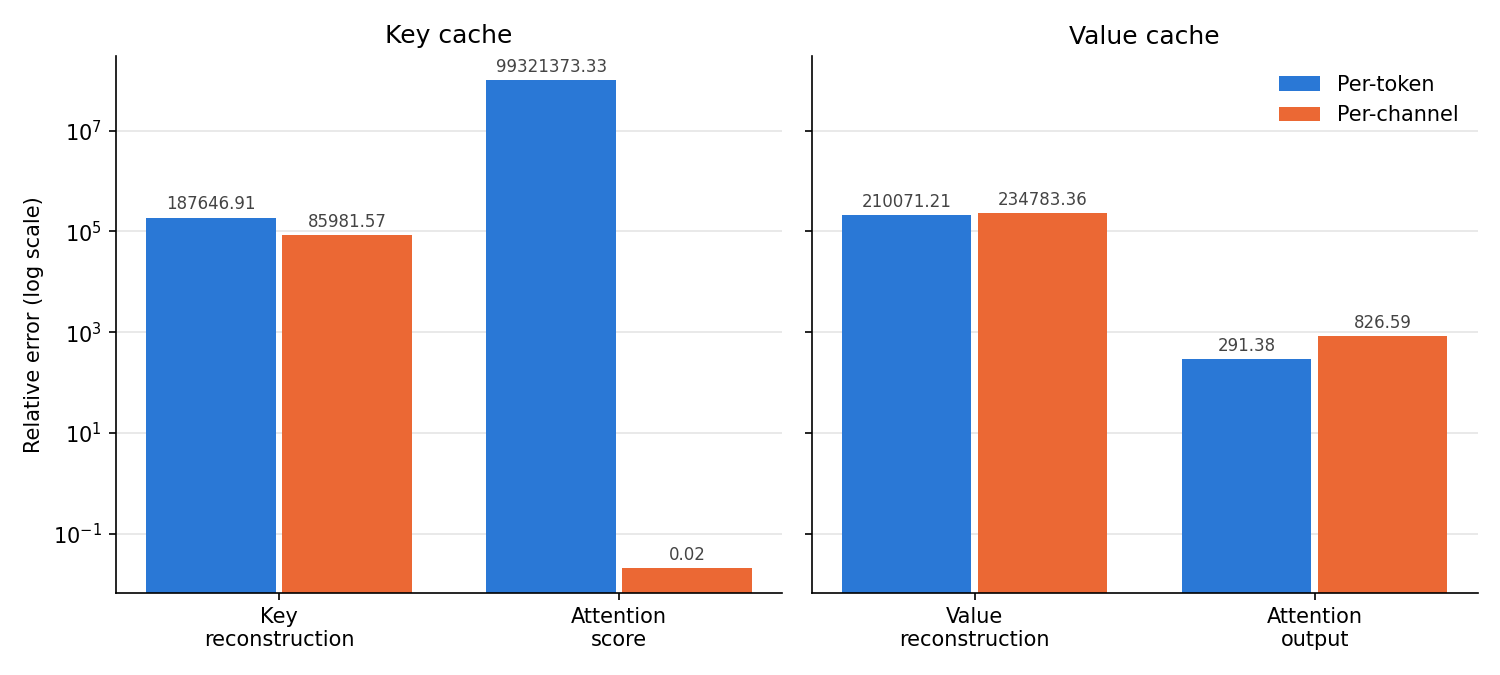
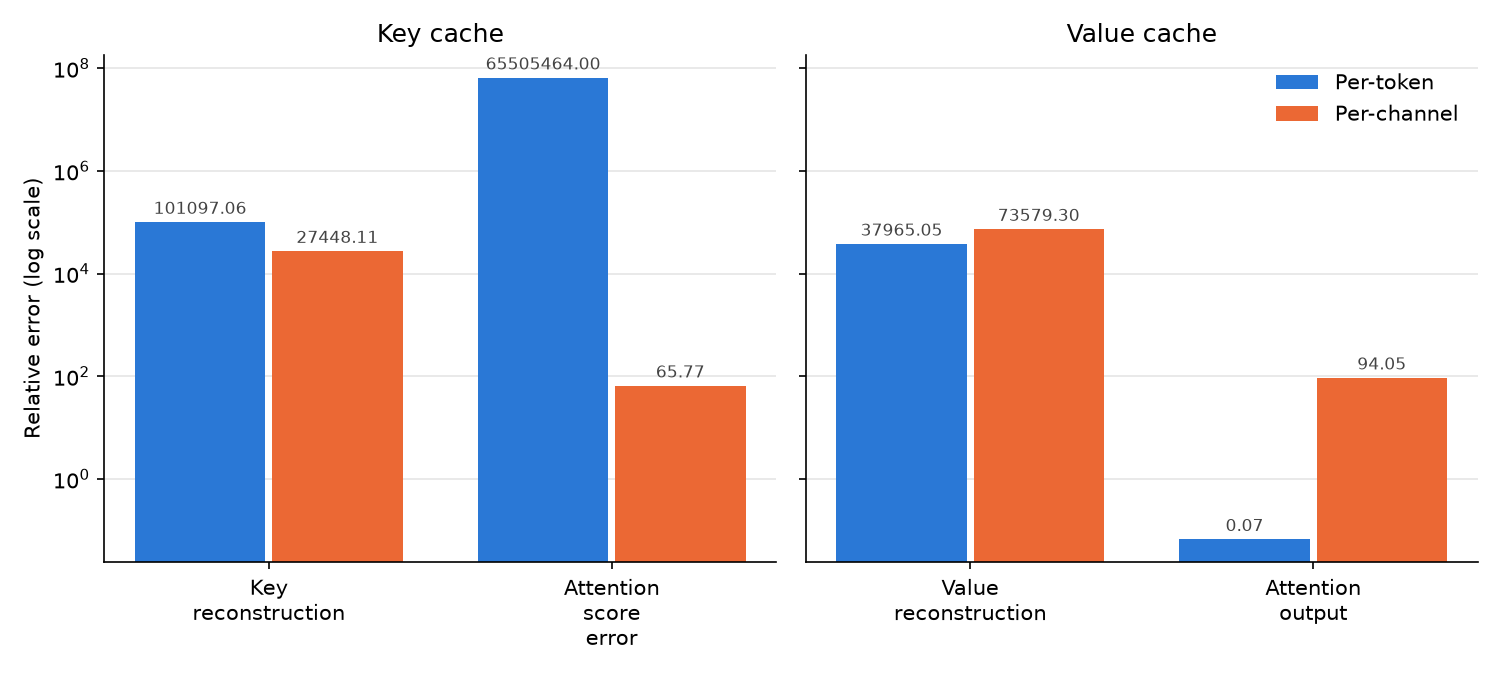
clean up metrics to simplify logic

diff --git a/tests/test_metrics.py b/tests/test_metrics.py
@@ -4,35 +4,30 @@ from metrics import attention_weights, compute_error_metrics, relative_error
 
 
 def test_relative_error():
-    # Relative errors are 0.5 and 1, so their norm is sqrt(0.5**2 + 1**2).
+    # Entry errors are 3 and 4, giving a combined error of 5.
     original = np.array([[-2.0, 4.0]])
-    reconstructed = np.array([[-1.0, 8.0]])
-
+    reconstructed = np.array([[-8.0, 20.0]])
     error = relative_error(original, reconstructed)
 
-    np.testing.assert_allclose(error, np.sqrt(1.25))
+    np.testing.assert_allclose(error, 5)
 
 
 def test_relative_error_handles_zeros():
-    original = np.array([[0.0, 2.0]])
+    original = np.array([[0.0, 0.0]])
     reconstructed = np.array([[0.0, 1.0]])
+    error = relative_error(original, reconstructed, eps=0.1)
 
-    error = relative_error(original, reconstructed)
-
-    np.testing.assert_allclose(error, 0.5)
-    # A changed zero uses the denominator floor instead of dividing by zero.
-    np.testing.assert_allclose(relative_error([[0.0]], [[1.0]], eps=0.1), 10)
+    np.testing.assert_allclose(error, 10)
 
 
 def test_attention_weights():
-    Q = np.array([[1.0]])
-    K = np.array([[0.0], [np.log(2)]])
+    Q = np.array([[1.0], [0.0]])
+    K = np.array([[1000.0], [1001.0]])
 
     A = attention_weights(Q, K)
 
-    np.testing.assert_allclose(A, [[1 / 3, 2 / 3]])
-    # Large equal scores should still give equal weights without overflow.
-    np.testing.assert_allclose(attention_weights(Q, [[1000.0], [1000.0]]), [[0.5, 0.5]])
+    # A one-point score difference gives about 27% / 73%; tied scores split equally.
+    np.testing.assert_allclose(A, [[0.26894142, 0.73105858], [0.5, 0.5]])
 
 
 def test_unchanged_matrices_have_zero_error():
@@ -42,41 +37,4 @@ def test_unchanged_matrices_have_zero_error():
 
     errors = compute_error_metrics(Q, K, V, K, V)
 
-    assert errors == {
-        "key_reconstruction_error": 0.0,
-        "attention_score_error": 0.0,
-        "value_reconstruction_error": 0.0,
-        "attention_output_error": 0.0,
-    }
-
-
-def test_value_errors_use_full_precision_attention():
-    Q = np.array([[0.0, 0.0]])  # Equal weights for the two tokens.
-    K = np.array([[1.0, 1.0], [2.0, 2.0]])
-    V = np.array([[2.0, 4.0], [6.0, 8.0]])
-    V_hat = np.array([[4.0, 8.0], [6.0, 8.0]])
-
-    errors = compute_error_metrics(Q, K, V, K, V_hat)
-
-    assert errors["key_reconstruction_error"] == 0
-    assert errors["attention_score_error"] == 0
-    np.testing.assert_allclose(errors["value_reconstruction_error"], np.sqrt(2))
-    # Original output is [4, 6], reconstructed output is [5, 8].
-    np.testing.assert_allclose(errors["attention_output_error"], 5 / 12)
-
-
-def test_key_errors_do_not_change_value_output_metric():
-    Q = np.array([[1.0]])
-    K = np.array([[1.0], [2.0]])
-    K_hat = np.array([[1.0], [3.0]])
-    V = np.array([[2.0], [4.0]])
-
-    errors = compute_error_metrics(Q, K, V, K_hat, V)
-
-    np.testing.assert_allclose(errors["key_reconstruction_error"], 0.5)
-    expected_A = [[1 / (1 + np.exp(1)), np.exp(1) / (1 + np.exp(1))]]
-    expected_A_hat = [[1 / (1 + np.exp(2)), np.exp(2) / (1 + np.exp(2))]]
-    expected_error = relative_error(expected_A, expected_A_hat)
-    np.testing.assert_allclose(errors["attention_score_error"], expected_error)
-    assert errors["value_reconstruction_error"] == 0
-    assert errors["attention_output_error"] == 0
+    assert all(error == 0 for error in errors.values())

diff --git a/src/main.py b/src/main.py
@@ -18,30 +18,6 @@ quantization_method_map = {
     'token': per_token_quantization
 }
 
-for key_quantization_method, value_quantization_method in [
-    ('channel', 'token'),
-    ('token', 'channel'),
-    ('channel', 'channel'),
-    ('token', 'token')
-]:
-    print(f"Simulating per {key_quantization_method} quantization for K and per {value_quantization_method} for V")
-
-    K_hat = quantization_method_map[key_quantization_method](K, bits=2, G=GROUP_SIZE, R=RESIDUAL_LENGTH)
-    V_hat = quantization_method_map[value_quantization_method](V, bits=2, G=GROUP_SIZE, R=RESIDUAL_LENGTH)
-
-    errors = compute_error_metrics(Q, K, V, K_hat, V_hat)
-    border = "+------------------------------+------------------+"
-    print(border)
-    print(f"| {'Metric':<28} | {'Error':>16} |")
-    print(border)
-    for name, error in errors.items():
-        label = name.replace('_', ' ').capitalize()
-        print(f"| {label:<28} | {error:>16.6f} |")
-    print(border)
-    print()
-
-# Quantize K and V with the same method so each run fills one column of KIVI
-# Table 2: key metrics depend only on K_hat, value metrics only on V_hat.
 errors_by_method = {}
 for method, quantization_method in quantization_method_map.items():
     K_hat = quantization_method(K, bits=2, G=GROUP_SIZE, R=RESIDUAL_LENGTH)

diff --git a/src/metrics.py b/src/metrics.py
@@ -2,15 +2,11 @@ import numpy as np
 
 
 def relative_error(original, reconstructed, eps=1e-8):
-    original = np.asarray(original, dtype=np.float64)
-    reconstructed = np.asarray(reconstructed, dtype=np.float64)
     denominator = np.maximum(np.abs(original), eps)
     return float(np.linalg.norm((original - reconstructed) / denominator))
 
 
 def attention_weights(Q, K):
-    Q = np.asarray(Q, dtype=np.float64)
-    K = np.asarray(K, dtype=np.float64)
     scores = Q @ K.T
     # Subtract the row maximum so exponentiation does not overflow.
     weights = np.exp(scores - scores.max(axis=1, keepdims=True))

diff --git a/src/visualize.py b/src/visualize.py
@@ -12,7 +12,7 @@ METHOD_LABELS = {"token": "Per-token", "channel": "Per-channel"}
 PANELS = [
     ("Key cache", [
         ("key_reconstruction_error", "Key\nreconstruction"),
-        ("attention_score_error", "Attention\nscore"),
+        ("attention_score_error", "Attention\nscore\nerror"),
     ]),
     ("Value cache", [
         ("value_reconstruction_error", "Value\nreconstruction"),
